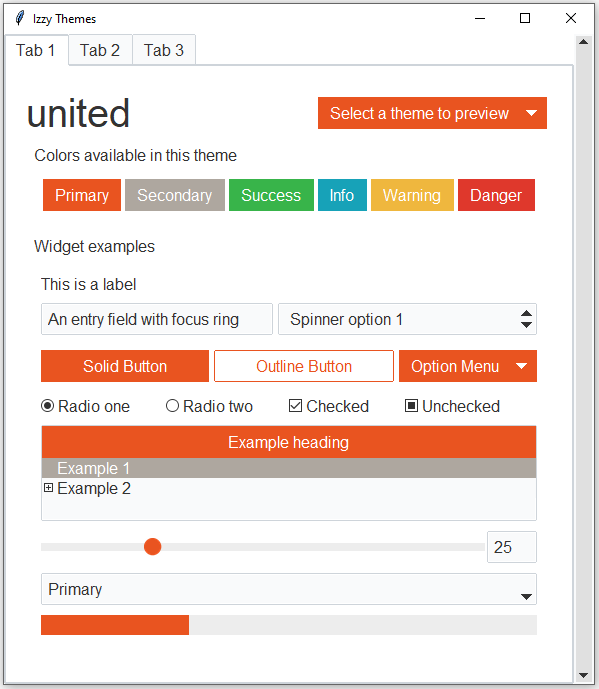
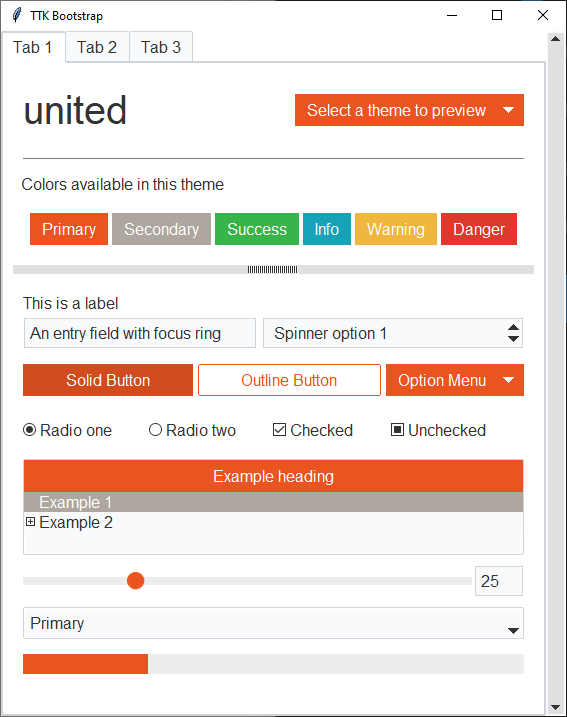
update demo screenshots

Changed region(s): [[0.0, 0.0, 1.0, 1.0], [0.2099, 0.762, 0.2698, 0.8229]]

diff --git a/src/ttkbootstrap/demo.py b/src/ttkbootstrap/demo.py
@@ -7,6 +7,9 @@ from ttkbootstrap import Style
 import tkinter
 from tkinter import ttk
 
+# for taking screenshots
+from PIL import ImageGrab
+
 
 class Demo(Style):
     """
@@ -119,6 +122,8 @@ class Demo(Style):
 
         # Button
         btn_frame = ttk.Frame(widget_frame)
+        # UNCOMMENT the next line when taking screen shots of the demo
+        # b1 = ttk.Button(btn_frame, text='Solid Button', command=self.get_bounding_box)
         b1 = ttk.Button(btn_frame, text='Solid Button')
         b1.pack(side='left', fill='x', expand='yes', padx=(0, 5))
 
@@ -186,6 +191,29 @@ class Demo(Style):
     def quit(self):
         # I'm getting an error when closing the application without switching a standard theme ??
         self.root.destroy()
+
+    def get_bounding_box(self):
+        """
+        Take a screenshot of the current demo window and save to examples
+        """
+        # bounding box
+        titlebar = 31
+        x1 = self.root.winfo_rootx() - 1
+        y1 = self.root.winfo_rooty() - titlebar
+        x2 = x1 + self.root.winfo_width() + 2
+        y2 = y1 + self.root.winfo_height() + titlebar + 1
+
+        self.root.after_idle(self.save_screenshot, [x1, y1, x2, y2])
+
+    def save_screenshot(self, bbox):
+        # screenshot
+        img = ImageGrab.grab(bbox=bbox)
+
+        # image name
+        filename = f'../../examples/{self.theme_name.get()}.png'
+        print(filename)
+        img.save(filename, 'png')
+
 
 
 if __name__ == '__main__':
